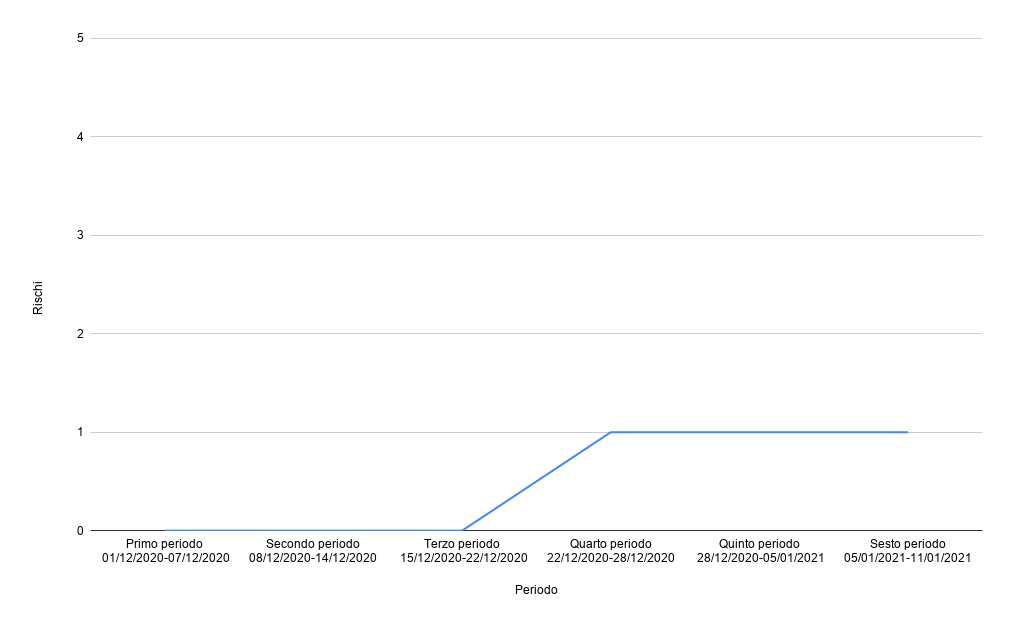
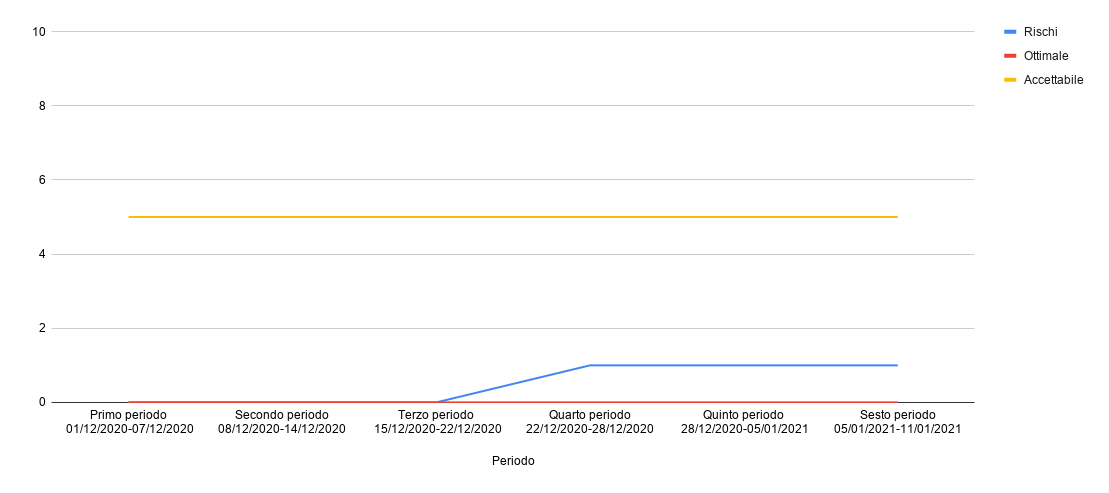
aggiunto e fixato il mondo

diff --git a/esterni/piano_di_qualifica/res/sections/qualita_di_processo.tex b/esterni/piano_di_qualifica/res/sections/qualita_di_processo.tex
@@ -2,25 +2,26 @@
 
 \subsection{Introduzione}
 
-Per garantire la qualità del prodotto finale, si è deciso di fare uso del metodo del PDCA  e di fare riferimento allo standard \glock{ISO/IEC:9126} per la definizione delle caratteristiche di qualità del prodotto.
-Attraverso questo metodo e quelle caratteristiche è possibile garantire un miglioramento continuo con un focus sull'ottenimento di un prodotto di qualità.
+Per garantire la qualità del prodotto finale, si è deciso di fare uso del metodo del PDCA  e di fare riferimento allo standard \glock{ISO/IEC:9126} per la definizione delle caratteristiche di qualità del prodotto. \\
+Attraverso questo metodo e quelle caratteristiche è possibile garantire un miglioramento continuo con un focus sull'ottenimento di un prodotto di qualità. \\
 
-Nello svolgimento del progetto, i processi fanno uso di criteri di qualità, attraverso i quali è possibile perseguire un miglioramento continuo che porti alla più completa soddisfazione di questi criteri. In questo progetto, si è scelto di fare uso del metodo PDCA e dello standard ISO/IEC 15504 (SPICE). Attraverso \glock{PDCA} e \glock{SPICE}, è possibile garantire uno svolgimento dei processi che tendono, attraverso l'esperienza, a migliorarsi e ad assicurare al cliente l'ottenimento di un prodotto di qualità.
-In questa sezione si espongono i livelli di qualità accettabili e ottimali sulla base delle metriche scelte all'interno del documento \dext{Norme di Progetto v1.0.0}.
+Nello svolgimento del progetto, i processi fanno uso di criteri di qualità, attraverso i quali è possibile perseguire un miglioramento continuo che porti alla più completa soddisfazione di questi criteri. In questo progetto, si è scelto di fare uso del metodo PDCA e dello standard ISO/IEC 15504 (SPICE). Attraverso \glock{PDCA} e \glock{SPICE}, è possibile garantire uno svolgimento dei processi che tendono, attraverso l'esperienza, a migliorarsi e ad assicurare al cliente l'ottenimento di un prodotto di qualità.\\
+In questa sezione si espongono i livelli di qualità accettabili e ottimali sulla base delle metriche scelte all'interno del documento \dext{Norme di Progetto}. \\
 
 \subsection{Monitoraggio dei Processi}
 
 I processi monitorati con delle metriche precise di qualità sono i seguenti:
 
 \begin{itemize}
-	\item Gestione delle Spese/Risorse (Piano di Progetto);
-	\item Gestione dei Rischi.
+	\item (QPC-1) Gestione delle Spese/Risorse (Piano di Progetto);
+	\item (QPC-2) Gestione dei Rischi.
+	\item (QPC-3) Gestione della Qualità.
 \end{itemize}
 
 	\subsubsection{QPC-1 Gestione delle Spese}
 
-		Il processo di gestione delle risorse si riserva di gestire la copertura delle risorse disponibili e delle attività schedulate all'interno del \dext{Piano di Progetto v1.0.0}. 
-		Di seguito vengono esposte le metriche utilizzate, che possono essere visionate all'interno del documento \dext{Norme di Progetto v1.0.0}.
+		Il processo di gestione delle risorse si riserva di gestire la copertura delle risorse disponibili e delle attività schedulate all'interno del \dext{Piano di Progetto}. \\
+		Di seguito vengono esposte le metriche utilizzate, che possono essere visionate all'interno del documento \dext{Norme di Progetto}.\\
 
 		\paragraph{Metriche utilizzate}
 
@@ -58,14 +59,13 @@ I processi monitorati con delle metriche precise di qualità sono i seguenti:
 			\end{center}
 
 	\subsubsection{QPC-2 Gestione dei Rischi}
-
-		Il processo di gestione della qualità monitora l'adempimento delle metriche definite per ogni processo.
-		Per ogni fase del progetto si eseguirà un'analisi "istantanea" della situazione corrente, con successivo richiamo per non adempimento a qualche metrica prescritta.
-		Di seguito vengono esposte le metriche utilizzate, che possono essere visionate all'interno del documento \dext{Norme di Progetto v1.0.0}.
+		Il processo di gestione dei rischi monitora la comparsa di nuovi rischi che possono avvenire durante le fasi del progetto.\\
+		Per ogni fase del progetto si eseguirà una relativa analisi retrospettiva dei rischi precedentemente segnalati e, in caso di nuovi rischi, si cercherà di risolverli nel minor tempo possibile.\\
+		Di seguito vengono esposte le metriche utilizzate, che possono essere visionate all'interno del documento \dext{Norme di Progetto}.\\
 
 		\paragraph{Metriche utilizzate}
 			\begin{itemize}
-				\item QM-PD-SVL01 Percentuale requisiti soddisfatti (PRS) 
+				\item QM-PC-PNF06 Unbudgeted risks (UR)
 			\end{itemize}
 			
 		\paragraph{Indici di Qualità}
@@ -78,58 +78,33 @@ I processi monitorati con delle metriche precise di qualità sono i seguenti:
 				\hline
 				\endfirsthead
 				\hline
-				PRS & 0\% & 5\% \\
+				UR & 0 & 	$\leq5$ \\
 				\hline
-				\caption{Indici di qualità per le metriche per la Gestione della Qualità}
+				\caption{Indici di qualità per le metriche della Gestione dei Rischi}
 				\end{longtable}
 			\end{center}
 
-			
-			Di seguito il grafico che rappresenta la percentuale di violazioni delle metriche definite nelle \dext{Norme di Progetto}:
-			
+			\noindent\begin{minipage}{\linewidth}
+			Di seguito il grafico che rappresenta i rischi non preventivati per il periodo di Analisi dei Requisiti:
 			\begin{figure}[H]
 				\centering
-				\includegraphics[width=0.9\linewidth]{./res/images/violazioni.png}
-				\caption{Grafico periodo/ivolazione nel periodo di Analisi dei Requisiti}
-				\label{fig:Grafico violazioni periodo di Analisi dei Requisiti}
+				\includegraphics[width=0.9\linewidth]{./res/images/rischi.png}
+				\caption{Grafico periodo/rischi nel periodo di Analisi dei Requisiti}
+				\label{fig:Grafico rischi non preventivato periodo di Analisi dei Requisiti}
 			\end{figure}
+			\end{minipage}
 			
+		
 			
-			
-			
-			
-			
-			
-			
-			
-			
-			
-			
-			
-			
-			
-			
-			
-			
-			
-			
-			
-	
-	
-	
-	
-	
-	
-	
-	\subsubsection{QPC-2 Gestione della Qualità}
+	\subsubsection{QPC-3 Gestione della Qualità}
+		Il processo di gestione della qualità monitora l'adempimento delle metriche definite per ogni processo.\\
+		Per ogni fase del progetto si eseguirà un'analisi "istantanea" della situazione corrente, con successivo richiamo per non adempimento a qualche norma definita.\\
+		Di seguito vengono esposte le metriche utilizzate, che possono essere visionate all'interno del documento \dext{Norme di Progetto}.\\
 
-		Il processo di gestione dei rischi monitora la comparsa di nuovi rischi che possono avvenire durante le fasi del progetto.
-		Per ogni fase del progetto si eseguirà una relativa analisi retrospettiva dei rischi precedentemente segnalati e, in caso di nuovi rischi, si cercherà di risolverli nel minor tempo possibile.
-		Di seguito vengono esposte le metriche utilizzate, che possono essere visionate all'interno del documento \dext{Norme di Progetto v1.0.0}.
 
 		\paragraph{Metriche utilizzate}
 			\begin{itemize}
-				\item QM-PC-PNF06 Unbudgeted Risks (UR)
+				\item QM-PC-QLT01 Percentuale delle metriche soddisfatte (PMS)
 			\end{itemize}
 			
 		\paragraph{Indici di Qualità}
@@ -142,19 +117,19 @@ I processi monitorati con delle metriche precise di qualità sono i seguenti:
 				\hline
 				\endfirsthead
 				\hline
-				UR & 0 rischi & 5 rischi \\
+				PMS & 100\% & 90\% \\
 				\hline
-				\caption{Indici di qualità per le metriche per la Gestione delle Risorse}
+				\caption{Indici di qualità per le metriche per la Gestione della Qualità}
 				\end{longtable}
 			\end{center}
 
 			
-			Di seguito il grafico che rappresenta i rischi non preventivati per il periodo di Analisi dei Requisiti:
 			
+			Di seguito il grafico che rappresenta la percentuale di violazioni delle metriche definite nelle \dext{Norme di Progetto}:
 			\begin{figure}[H]
 				\centering
-				\includegraphics[width=0.9\linewidth]{./res/images/rischi.png}
-				\caption{Grafico periodo/rischio nel periodo di Analisi dei Requisiti}
-				\label{fig:Grafico rischi periodo di Analisi dei Requisiti}
+				\includegraphics[width=0.9\linewidth]{./res/images/violazioni.png}
+				\caption{Grafico periodo/volazione nel periodo di Analisi dei Requisiti}
+				\label{fig:Grafico violazioni periodo di Analisi dei Requisiti}
 			\end{figure}
 

diff --git a/esterni/piano_di_qualifica/res/sections/qualita_di_prodotto.tex b/esterni/piano_di_qualifica/res/sections/qualita_di_prodotto.tex
@@ -8,12 +8,13 @@
 		
 	\paragraph{Obiettivi}
 		\begin{itemize}
-			\item \textbf{correttezza:} i documenti che saranno presentati non dovranno presentare errori ortografici di alcun genere
+			\item \textbf{correttezza}: i documenti che saranno presentati non dovranno presentare errori ortografici di alcun genere
+			\item \textbf{leggibilità}: i documenti che saranno presentati non dovranno poter esser leggibili al maggior numero di persone
 		\end{itemize}
 		
 		
 	\paragraph{Metriche}
-	La comprensione dei documenti viene valutata dai seguenti criteri:
+	La comprensibilità dei documenti viene valutata dai seguenti criteri:
 	\begin{itemize}
 		\item QM-PD-DOC01 \glock{Indice di Gulpease};
      		\item QM-PD-DOC02 Correttezza ortografica.
@@ -33,7 +34,7 @@
 			\rowcolor{lightest-grayest}
 			Correttezza ortografica & 0 & 0 \\
 			\hline
-			\caption{Indici di qualità per le metriche per la Gestione delle Risorse}
+			\caption{Indici di qualità per la comprensibilità della documentazione}
 		\end{longtable}		
 	\end{center}
 	
@@ -43,15 +44,15 @@
 	
 		\paragraph{Obiettivi}
 			\begin{itemize}
-				\item{Completezza dell'implementazione:}
-					Il prodotto finale deve adempiere a tutti i vincoli e fornire tutte le caratteristiche prefissati, ed esposti dentro al \dext{Analisi dei Requisiti}
-				\item{Accuratezza}: capacità del prodotto software di fornire i risultati desiderati con la precisione richiesta
+				\item\textbf{Completezza dell'implementazione}: il prodotto finale deve adempiere a tutti i vincoli e fornire tutte le caratteristiche prefissati, ed esposti dentro al \dext{Analisi dei Requisiti}
+				\item\textbf{Accuratezza}: capacità del prodotto software di fornire i risultati desiderati con la precisione richiesta
 			\end{itemize}
 		
 		\paragraph{Metriche}
 			La valutazione della conformità del prodotto finale verrà valutata tramite le seguenti metriche
 			\begin{itemize}
-     				\item  QM-PD-SVL01  Percentuale requisiti soddisfatti
+     				\item  QM-PD-SVL01  Percentuale requisiti soddisfatti (PRS)
+     				\item  QM-PD-SVL02  Requisiti completati totali da piano di progetto fino a un determinato momento (RTOT)
 			\end{itemize}
 		\paragraph{Indici di qualità}
 			\begin{center}
@@ -63,15 +64,15 @@
 				\hline
 				\endfirsthead
 				\hline
-				N\textsubscript{FI} & // & // \\
+				RTOT & // &// \\
 				\hline
-				N\textsubscript{FTOT} & // & // \\
-				\hline				\hline
-				C & 100\% & 100\% \\
+				PRS & $\geq RTOT$ & $\geq RTOT - 10\%$ \\
 				\hline
+				\rowcolor{white}
 				\caption{Indici di qualità per completezza del prodotto finale}
 				\end{longtable}
 			\end{center}
+				
 				
 	
 	

diff --git a/esterni/piano_di_qualifica/res/sections/verifica.tex b/esterni/piano_di_qualifica/res/sections/verifica.tex
@@ -2,7 +2,11 @@
 \section{Resoconto attività di verifica}
 
 \subsection{Verifica documentazione}
- Come descritto nelle \dext{norme di progetto}, vengono usate la tecnica del  \glock{walkthrough} per la validazione dei vari documenti con cadenza periodica, per una verifica generale dell'adempimento a tutte le regole, e della tecnica dell' \glock{inspection} per la verifica delle varie modifiche/aggiunte ai documenti
+ Come descritto nelle \dext{Norme di Progetto}, vengono usate la tecnica del  \glock{walkthrough} per la validazione dei vari documenti con cadenza periodica, per una verifica generale dell'adempimento a tutte le regole, e della tecnica dell' \glock{inspection} per la verifica delle varie modifiche/aggiunte ai documenti
+\newline
+\newline
+\emph{Alcuni documenti non erano disponibili fin dall'inizio, e quindi i relativi valori delle metriche non son riportati}
+
 
 \subsubsection{Calcolo leggibilità documenti}
 Come descritto nelle \dext{norme di progetto}, si utilizza \glock{l'indice di Gulpease} per la verifica che i documenti siano leggibili e comprensibili da tutti. 

diff --git a/esterni/piano_di_qualifica/res/config.tex b/esterni/piano_di_qualifica/res/config.tex
@@ -24,6 +24,7 @@
 \usepackage{colortbl}
 \usepackage{tikz}
 \usepackage{titlesec}
+\usepackage{amsmath}
 
 
 % Impostazione sottotitolo di quarto livello e quinto livello
